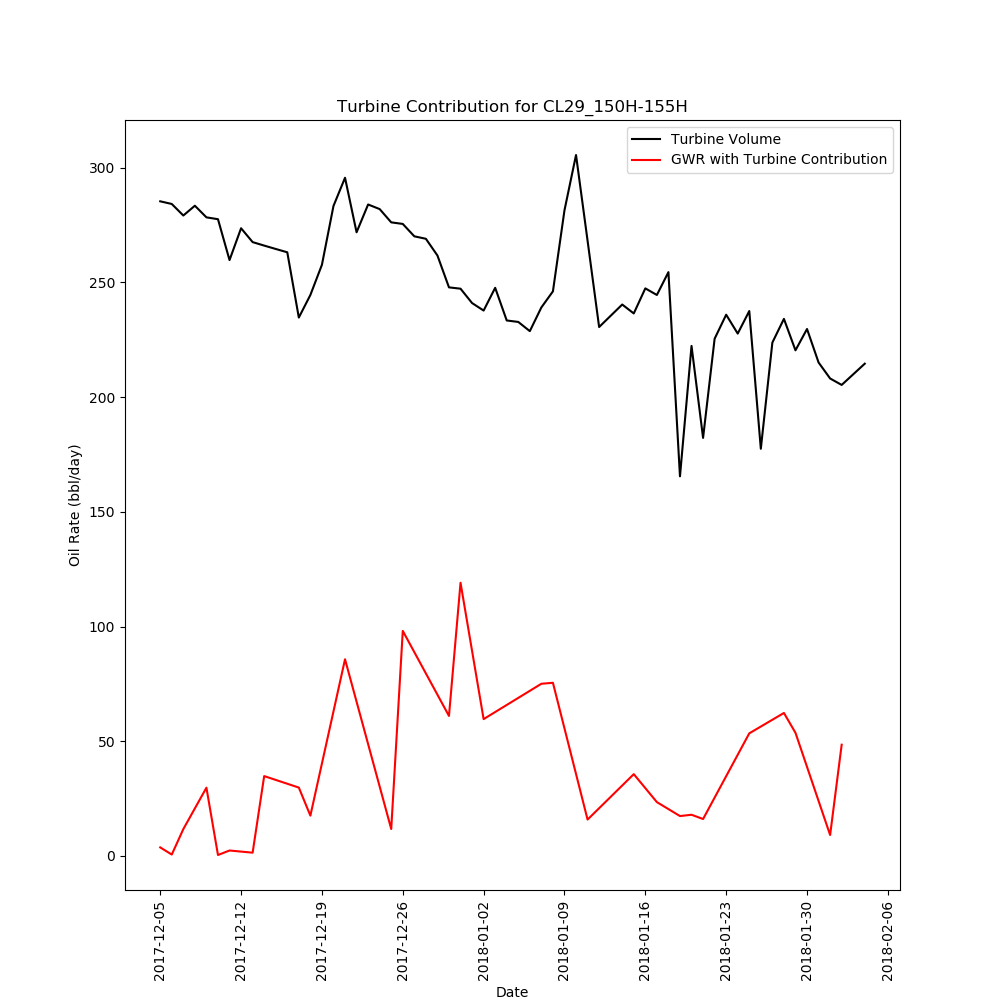
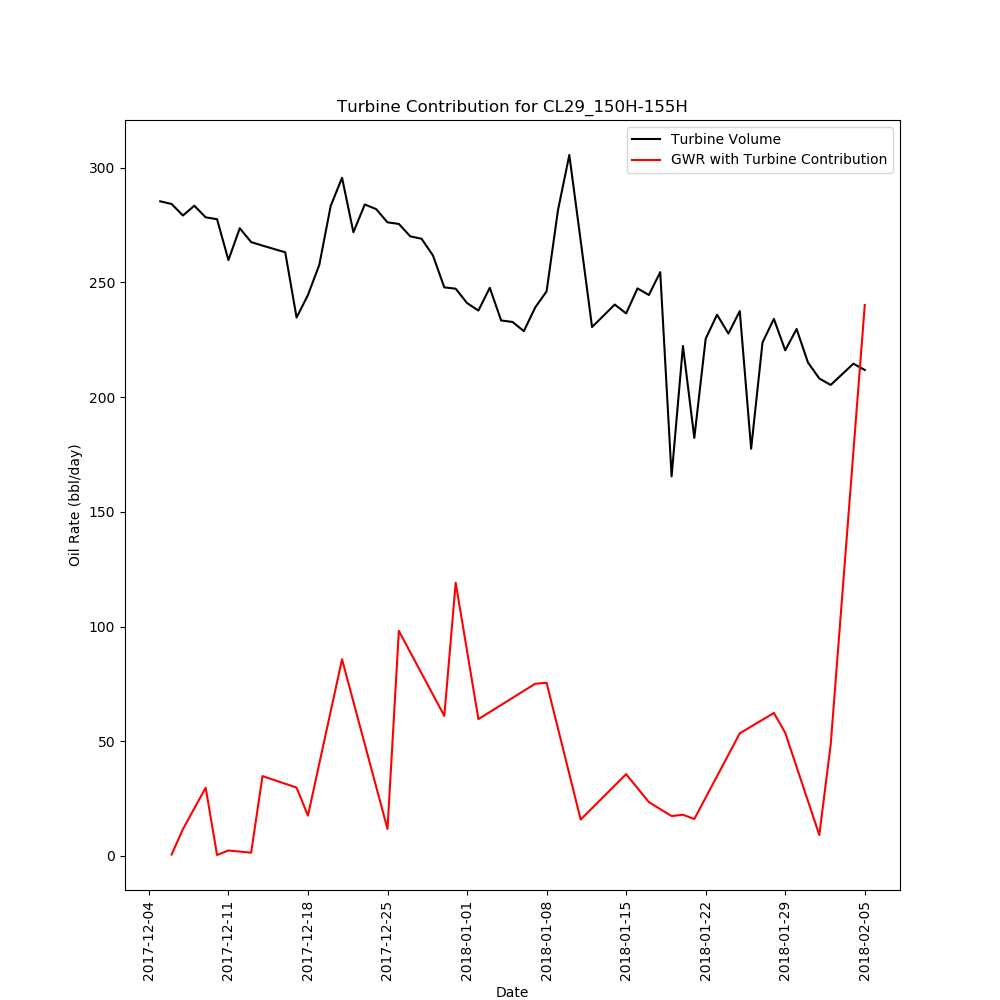
turbines for entire facility

diff --git a/turbine.py b/turbine.py
@@ -5,6 +5,7 @@ import numpy as np
 import pandas as pd
 import matplotlib.pyplot as plt
 from gwr import turbine_gwr_pull
+from fluids_comp import gauge_pull
 
 
 def data_conn():
@@ -161,49 +162,81 @@ def plot_contr(df):
 
 	plt.savefig('images/contributions/cont_{}.png'.format(well))
 
+def fac_contr(df):
+	plt.close()
+	fig, ax = plt.subplots(1, 1, figsize=(10, 10))
+
+	fac = df['FacilityName'].unique()[0]
+
+	fac_df = df[['FacilityName', 'time', 'volume', 'oil_contr']]
+	fac_df = fac_df.groupby(['FacilityName', 'time'], as_index=False).sum()
+	fac_df = fac_df.sort_values('time')
+	pos_df = fac_df
+	pos_df.loc[(fac_df['oil_contr'] < 0) | (fac_df['oil_contr'].isnull()), 'oil_contr'] = 0
+	pos_df = pos_df[pos_df['oil_contr'] > 0]
+
+	ax.plot(pos_df['time'], pos_df['volume'], color='black', label='Turbine Volume')
+	ax.plot(pos_df['time'], pos_df['oil_contr'], color='red', label='GWR with Turbine Contribution')
+
+	plt.xticks(rotation='vertical')
+	plt.xlabel('Date')
+	plt.ylabel('Oil Rate (bbl/day)')
+	plt.title('Turbine Contribution for {}'.format(fac))
+	plt.legend()
+
+	plt.savefig('images/contributions/facility/cont_{}.png'.format(fac))
+
 def gauge_plot(df, gauge_df):
-    plt.close()
-    fig, ax = plt.subplots(1, 1, figsize=(12, 10))
+	plt.close()
+	fig, ax = plt.subplots(1, 1, figsize=(12, 10))
 
-    date_min = df['CalcDate'].min()
-    date_max = df['CalcDate'].max()
-    g_df = gauge_df[(gauge_df['gaugeDate'] >= date_min) & (gauge_df['gaugeDate'] <= date_max)]
+	facility_df = df.groupby(['FacilityName', 'time']).sum()
 
-    ax.plot(df['time'], df['LGROil'], label='LGR Value')
-    ax.plot(g_df['gaugeDate'], g_df['total_oil'], 'ro', label='Real Gauges')
-    ymin, ymax = plt.ylim()
+	date_min = df['time'].min()
+	date_max = df['time'].max()
+	g_df = gauge_df[(gauge_df['gaugeDate'] >= date_min) & (gauge_df['gaugeDate'] <= date_max)]
 
-    facility = lgr_df['FacilityName'].unique()[0]
-    plt.title('LGR for Facility {}'.format(facility))
-    ax.set_xlabel('Date')
-    ax.set_ylabel('bbl Oil')
-    plt.ylim(ymin=0)
+	ax.plot(df['time'], df['volume'], label='Turbine Value')
+	ax.plot(g_df['gaugeDate'], g_df['total_oil'], 'ro', label='Real Gauges')
+	ymin, ymax = plt.ylim()
 
-    plt.xticks(rotation='vertical')
-    plt.legend()
+	facility = lgr_df['FacilityName'].unique()[0]
+	plt.title('Turbine Comparison for Facility {}'.format(facility))
+	ax.set_xlabel('Date')
+	ax.set_ylabel('bbl Oil')
+	plt.ylim(ymin=0)
 
-    plt.savefig('images/contributions/gauge/{}.png'.format(facility))
+	plt.xticks(rotation='vertical')
+	plt.legend()
+
+	plt.savefig('images/contributions/gauge/{}.png'.format(facility))
 
 
 if __name__ == "__main__":
 	# df = data_conn()
 	# df = shift_volumes(df)
 	# df.to_csv('data/turbine.csv')
-	df = pd.read_csv('data/turbine.csv')
+	# df = pd.read_csv('data/turbine.csv')
 
 	# gwr_df = turbine_gwr_pull()
 	# gwr_df.to_csv('data/turbine_gwr.csv')
-	gwr_df = pd.read_csv('data/turbine_gwr.csv')
+	# gwr_df = pd.read_csv('data/turbine_gwr.csv')
 
-	tag_df = tag_dict()
-	turbine_df = df.merge(tag_df, on='tag_prefix', how='inner')
-	g_df = turb_contr(gwr_df, turbine_df)
-	g_df.to_csv('data/turbine_contribution.csv')
+	# tag_df = tag_dict()
+	# turbine_df = df.merge(tag_df, on='tag_prefix', how='inner')
+	# g_df = turb_contr(gwr_df, turbine_df)
+	# g_df.to_csv('data/turbine_contribution.csv')
 
 	g_df = pd.read_csv('data/turbine_contribution.csv')
 	g_df['time'] = pd.to_datetime(g_df['time'])
-	for well in g_df['tag_prefix'].unique():
-		plot_contr(g_df[g_df['tag_prefix'] == well].sort_values('time'))
+	# for well in g_df['tag_prefix'].unique():
+	# 	plot_contr(g_df[g_df['tag_prefix'] == well].sort_values('time'))
+	for fac in g_df['FacilityName'].unique():
+		fac_contr(g_df[g_df['FacilityName'] == fac].sort_values('time'))
+
+	# gauge_df = gauge_pull()
+	# for fac in g_df['FacilityName'].unique():
+	# 	gauge_plot(g_df[g_df['FacilityName'] == fac], gauge_df[gauge_df['FacilityName'] == fac])
 
 	# this = turbine_df[['API', 'Facilitykey']]
 	# that = this.groupby('Facilitykey')['API'].nunique()
